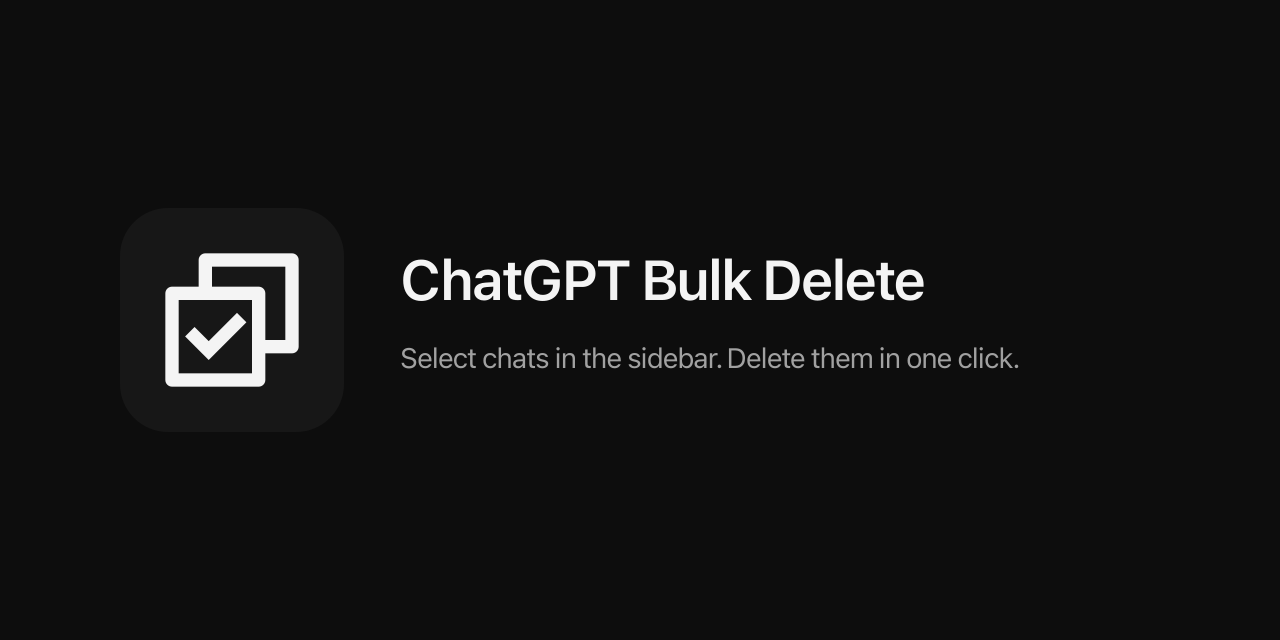
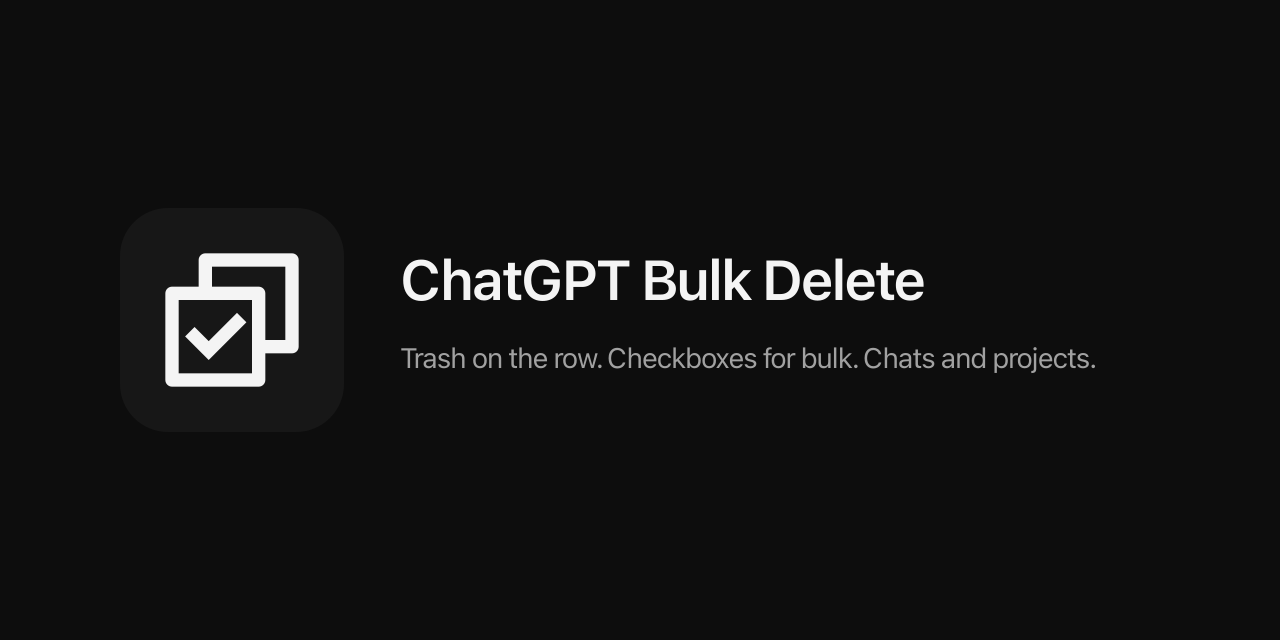
Tighten GitHub name, tagline, and README
Keep the searchable repo name. Lead with the actual product:
row-level trash plus bulk select, chats and projects, no popup.

Changed region(s): [[0.3125, 0.5312, 0.8438, 0.5938]]

diff --git a/README.md b/README.md
@@ -1,69 +1,70 @@
 # ChatGPT Bulk Delete
 
-Chrome extension that bulk-deletes [ChatGPT](https://chatgpt.com) chats and projects from the sidebar.
+[English](#chatgpt-bulk-delete) · [中文](#中文)
 
-No extra panel. No store listing. Load it unpacked from this repo.
+Delete chats and projects from the ChatGPT sidebar.
+
+ChatGPT keeps Delete inside **•••**. This extension puts a trash icon on the row, next to edit and more, and adds checkboxes when you want to clear many chats at once.
 
 <p align="center">
-  <img src="docs/social.png" width="640" alt="ChatGPT Bulk Delete: select chats in the sidebar, delete them in one click">
+  <img src="docs/social.png" width="640" alt="ChatGPT Bulk Delete">
 </p>
 
-ChatGPT still deletes one conversation at a time through the more menu. This extension puts checkboxes and a delete control on the list you already use.
+## Use
 
-## Features
+- **One chat or one project:** hover the row, click the trash next to edit / •••
+- **Many chats:** click the select icon beside Edit, check the ones you want (Shift-click a range), click trash
 
-- Multi-select chats in the sidebar, then delete them in one click
-- Shift-click a range, or use the header checkbox for the visible list
-- A delete icon on each chat and each project, next to pin / edit / more
-- Uses ChatGPT's own session API (`PATCH /backend-api/conversation/{id}`)
-- Looks like ChatGPT: icon color only, no extra hover chips
-- No extra Chrome permissions, no analytics, no remote server
+Nothing else is added to the page. No popup, no floating bar.
 
 ## Install
 
-1. Download the [latest release ZIP](https://github.com/EvilIrving/chatgpt-bulk-delete/releases/latest), or clone this repo
+Not on the Chrome Web Store. Load it unpacked:
+
+1. Download the [latest ZIP](https://github.com/EvilIrving/chatgpt-bulk-delete/releases/latest) and unzip it, or clone this repo
 2. Open `chrome://extensions`
-3. Turn on **Developer mode**
-4. **Load unpacked** and pick the folder that contains `manifest.json`
+3. Enable **Developer mode**
+4. **Load unpacked** → the folder that contains `manifest.json`
 5. Open [chatgpt.com](https://chatgpt.com) and refresh
 
-Works in Chrome, Edge, Arc, and Brave.
+Chrome, Edge, Arc, Brave.
 
 ## Privacy
 
-The extension only runs on `chatgpt.com` and `chat.openai.com`. It does not add `storage`, `identity`, or extra host permissions. Deletes go to ChatGPT's own backend with the cookie you already have. Nothing is sent to the author.
+Runs only on `chatgpt.com` and `chat.openai.com`. No `storage`, `identity`, or extra host permissions. Deletes use your existing ChatGPT session. Nothing is sent to the author. [`content.js`](content.js) is the whole feature.
 
-Read [`content.js`](content.js) if you want to verify that before loading it.
+## Notes
 
-## How it works
+- Unofficial. Not affiliated with OpenAI.
+- ChatGPT sidebar markup changes. When the buttons vanish, the selectors in `content.js` need a patch.
+- Chat delete calls ChatGPT's own API. Project delete tries that API, then the native menu if OpenAI moved the endpoint.
+- Deleted items follow OpenAI's retention rules, same as deleting them by hand.
 
-- **Chats:** `PATCH /backend-api/conversation/{id}` with `{ "is_visible": false }` (the same soft-delete ChatGPT uses)
-- **Projects:** ChatGPT's gizmo/project API, with a fallback to the native delete menu if the API shape has changed
-- **UI:** a content script in the page, so it can use your existing session. Selectors will break when OpenAI redesigns the sidebar. PRs welcome.
+MIT. Icons: [Remix Icon](https://remixicon.com).
 
-## Not affiliated
-
-Unofficial. Not made by, endorsed by, or affiliated with OpenAI. ChatGPT is a trademark of OpenAI.
-
-## Limits
-
-- ChatGPT DOM changes can hide the buttons until the selectors are updated
-- Not on the Chrome Web Store
-- Project delete may fall back to ChatGPT's own confirm dialog
-- Deleted chats follow OpenAI's retention rules, same as deleting them by hand
-
-## License
-
-MIT. Icons from [Remix Icon](https://remixicon.com).
-
-If this saves you a slog through the sidebar, a star helps other people find it.
+If this cuts the cleanup grind, a star makes the repo easier to find.
 
 ---
 
 ## 中文
 
-在 chatgpt.com 侧边栏勾选对话，一键删除。每条聊天和每个项目旁边也可以直接点删除，不用进「更多」。
+ChatGPT 侧边栏里，删除藏在 **•••** 里，只能一条一条点。这个扩展把垃圾桶直接放在编辑 / 更多旁边，对话和项目都是。清很多对话时，点编辑旁的多选，勾上，再点删除。
 
-**安装：** 下载 [Release ZIP](https://github.com/EvilIrving/chatgpt-bulk-delete/releases/latest) 或 clone 本仓库 → `chrome://extensions` → 开发者模式 → 加载已解压的扩展程序 → 选中含 `manifest.json` 的目录 → 打开 chatgpt.com 并刷新。
+页面上不加说明、不加浮层、不加弹窗。
 
-只在 ChatGPT 官网运行，没有额外权限，没有统计，不经过作者的服务器。非正式产品，与 OpenAI 无关。
+### 用法
+
+- **删一条对话或一个项目：** 悬停那一行，点编辑 / ••• 旁边的垃圾桶
+- **删很多对话：** 点「编辑」旁的多选图标，勾选（Shift 连选），点垃圾桶
+
+### 安装
+
+还没上架 Chrome 商店。用「加载已解压的扩展程序」：
+
+1. 下载 [最新 ZIP](https://github.com/EvilIrving/chatgpt-bulk-delete/releases/latest) 并解压，或 clone 本仓库
+2. 打开 `chrome://extensions`
+3. 打开「开发者模式」
+4. 「加载已解压的扩展程序」→ 选中里面有 `manifest.json` 的目录
+5. 打开 [chatgpt.com](https://chatgpt.com) 并刷新
+
+只在 ChatGPT 官网运行。没有额外权限，没有统计，请求只发给 ChatGPT。非正式产品，与 OpenAI 无关。

diff --git a/GROWTH.md b/GROWTH.md
@@ -4,7 +4,7 @@
 
 ## Product
 - **Name:** ChatGPT Bulk Delete
-- **One-liner:** Chrome extension that deletes ChatGPT chats and projects from the sidebar.
+- **One-liner:** Trash on the ChatGPT sidebar row, plus bulk-select for chats.
 - **What it does:** Injects multi-select and a delete control into chatgpt.com. Bulk-select chats with checkboxes, or delete one chat or project from the row next to pin / edit / more. Calls ChatGPT's own session API. No extra panel, no store listing yet.
 - **Category:** Chrome extension for ChatGPT history cleanup
 
